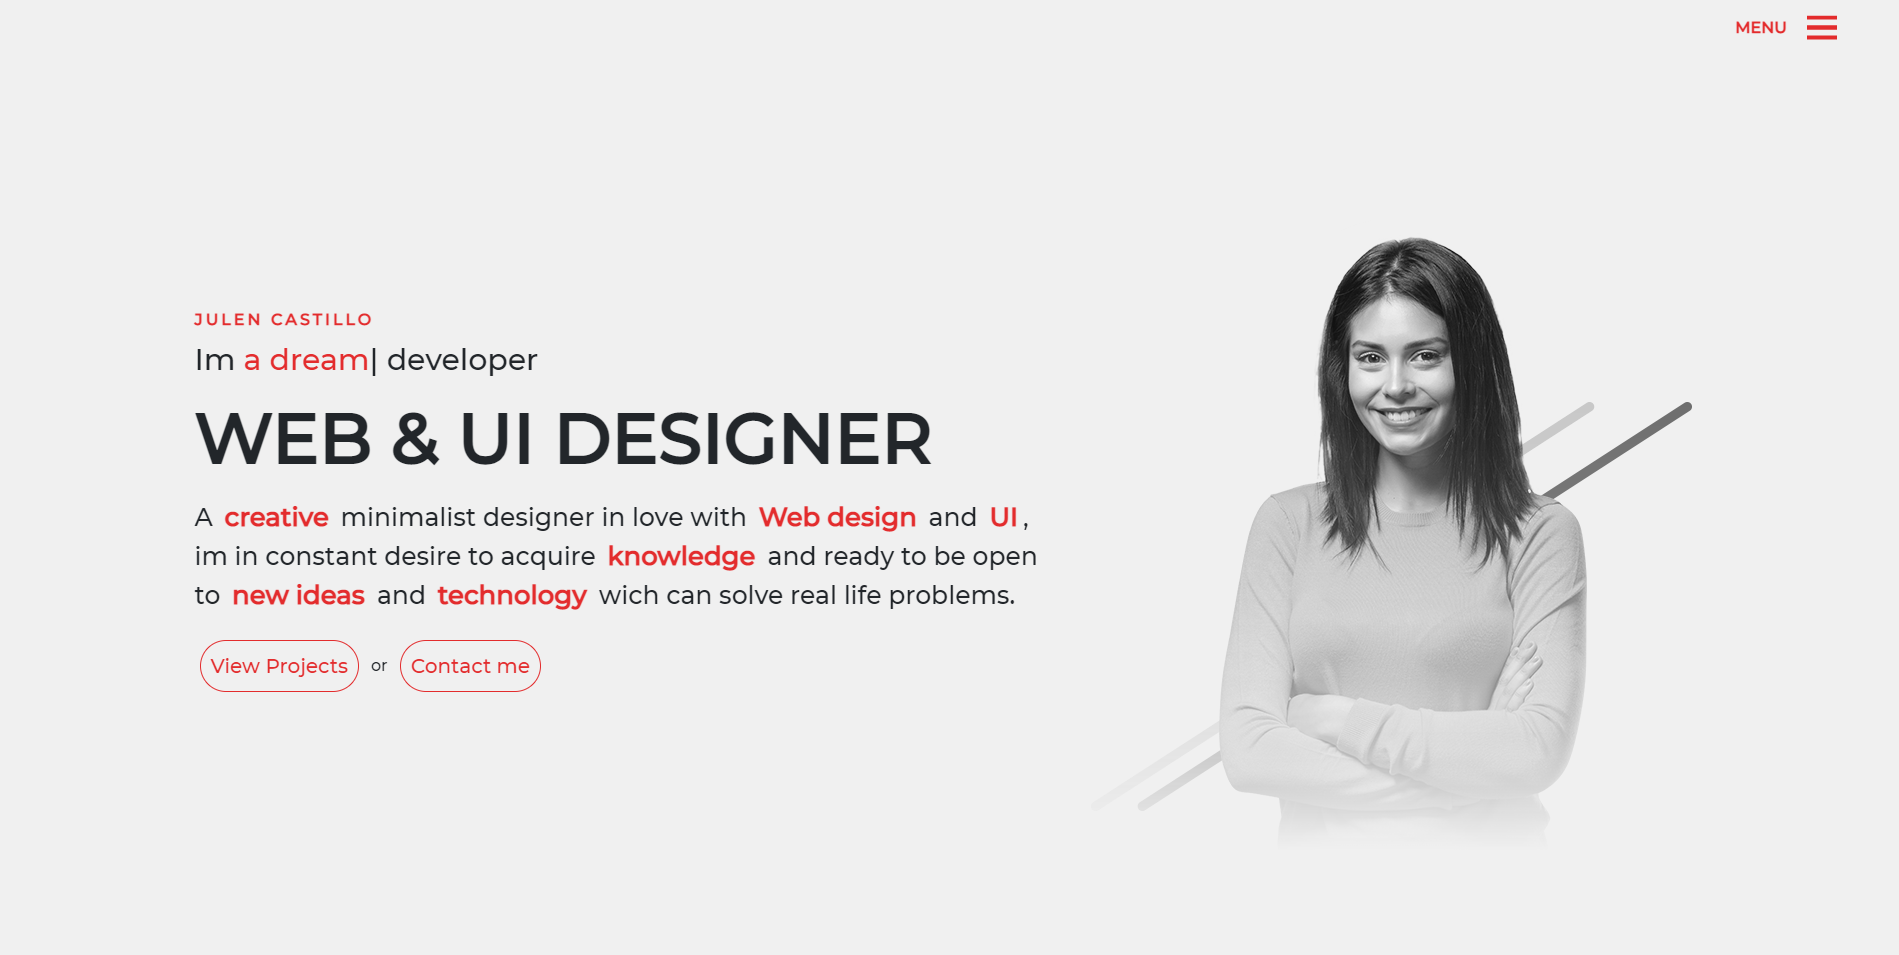
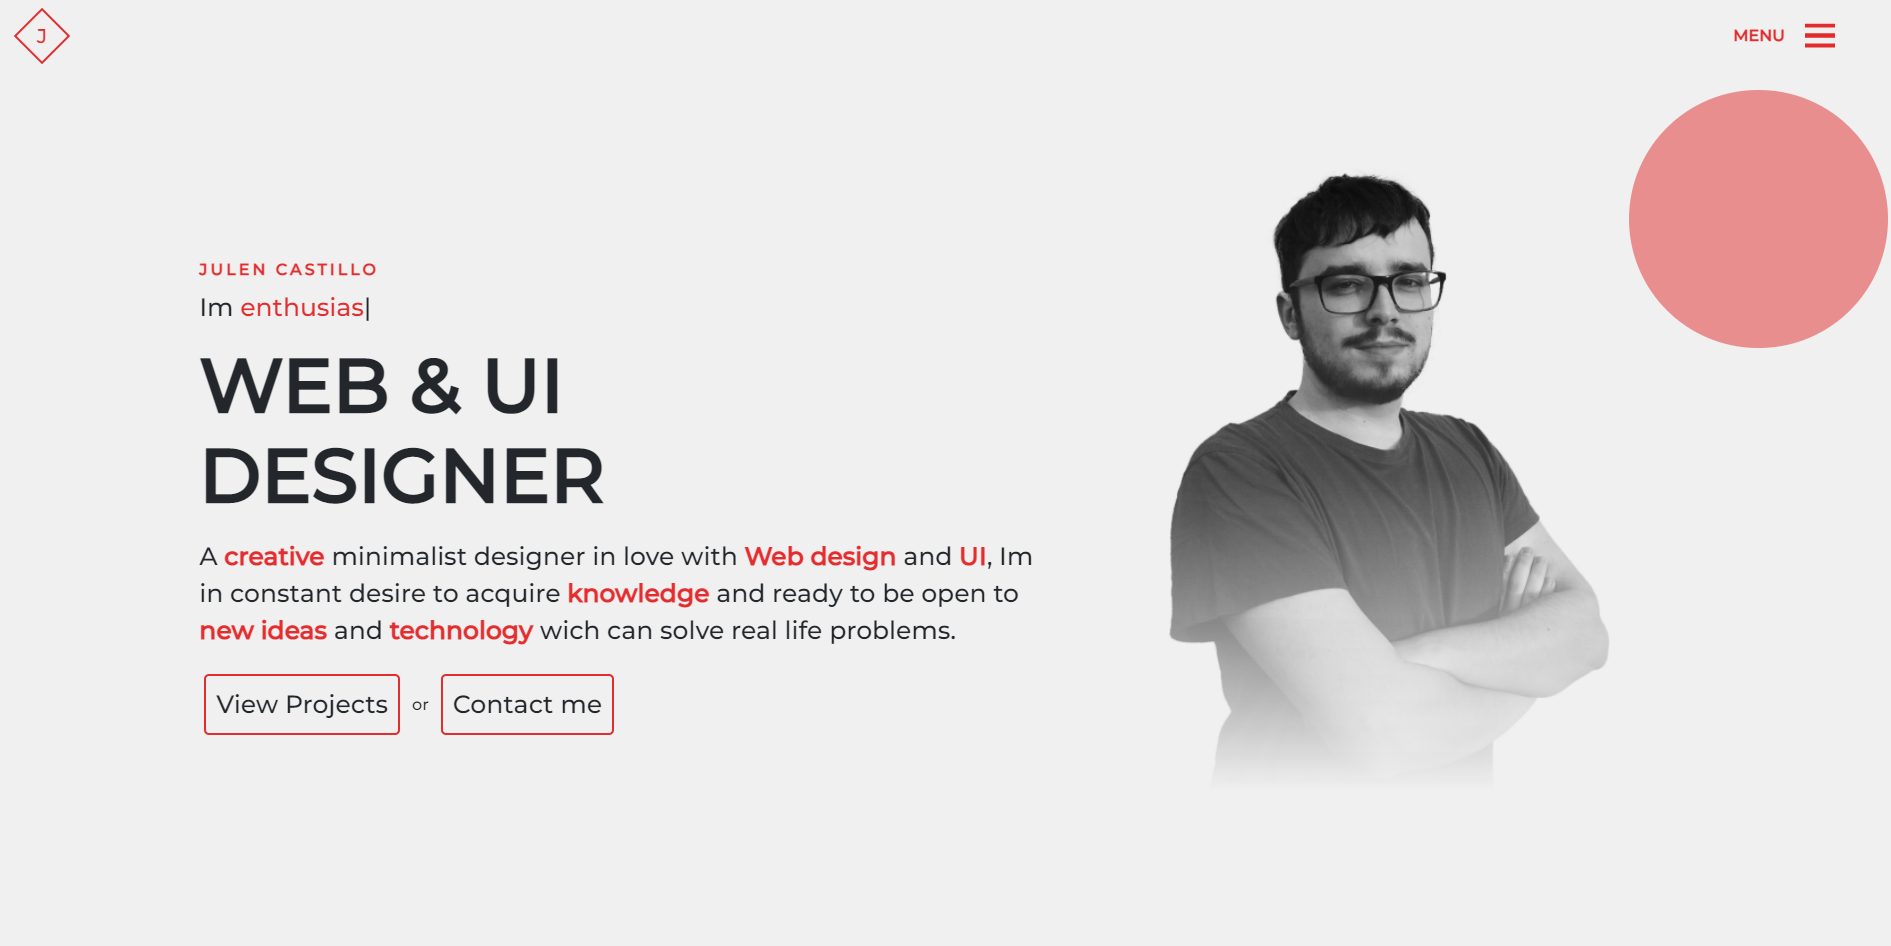
New profile image updated

diff --git a/src/components/HomeTop.vue b/src/components/HomeTop.vue
@@ -47,8 +47,8 @@
         <router-link :to="{ name: 'Contact' }">Contact me </router-link>
       </div>
     </div>
-    <div class="image-container order-1 order-md-2 col-md-5">
-      <div class="image d-md-block order-4" max-width="600px">
+    <div class="image-container order-1 order-md-2 col-md-5 col-sm-12">
+      <div class="image d-md-block order-4 d-flex justify-content-center align-items-center" max-width="600px">
         <img src="../../public/images/model.png" class="img-fluid" />
       </div>
     </div>
@@ -101,7 +101,9 @@ img {
   );
   -webkit-filter: grayscale(1);
   filter: grayscale(1);
+  width: 450px;
 }
+
 /* Main style */
 
 .main-container {
@@ -196,6 +198,15 @@ img {
     padding: 2px;
   }
 
+  .description-container{
+    font-size: 15px;
+  }
+
+  img{
+    
+    max-width: 300px;
+  }
+
   /* Description style */
 
   .description-span {
@@ -217,6 +228,13 @@ img {
   .background-circle {
     width: 250px;
     height: 250px;
+  }
+   .description-span {
+    font-size: 20px;
+  }
+  strong,
+  .heavy {
+    font-size: 20px !important;
   }
 }
 
